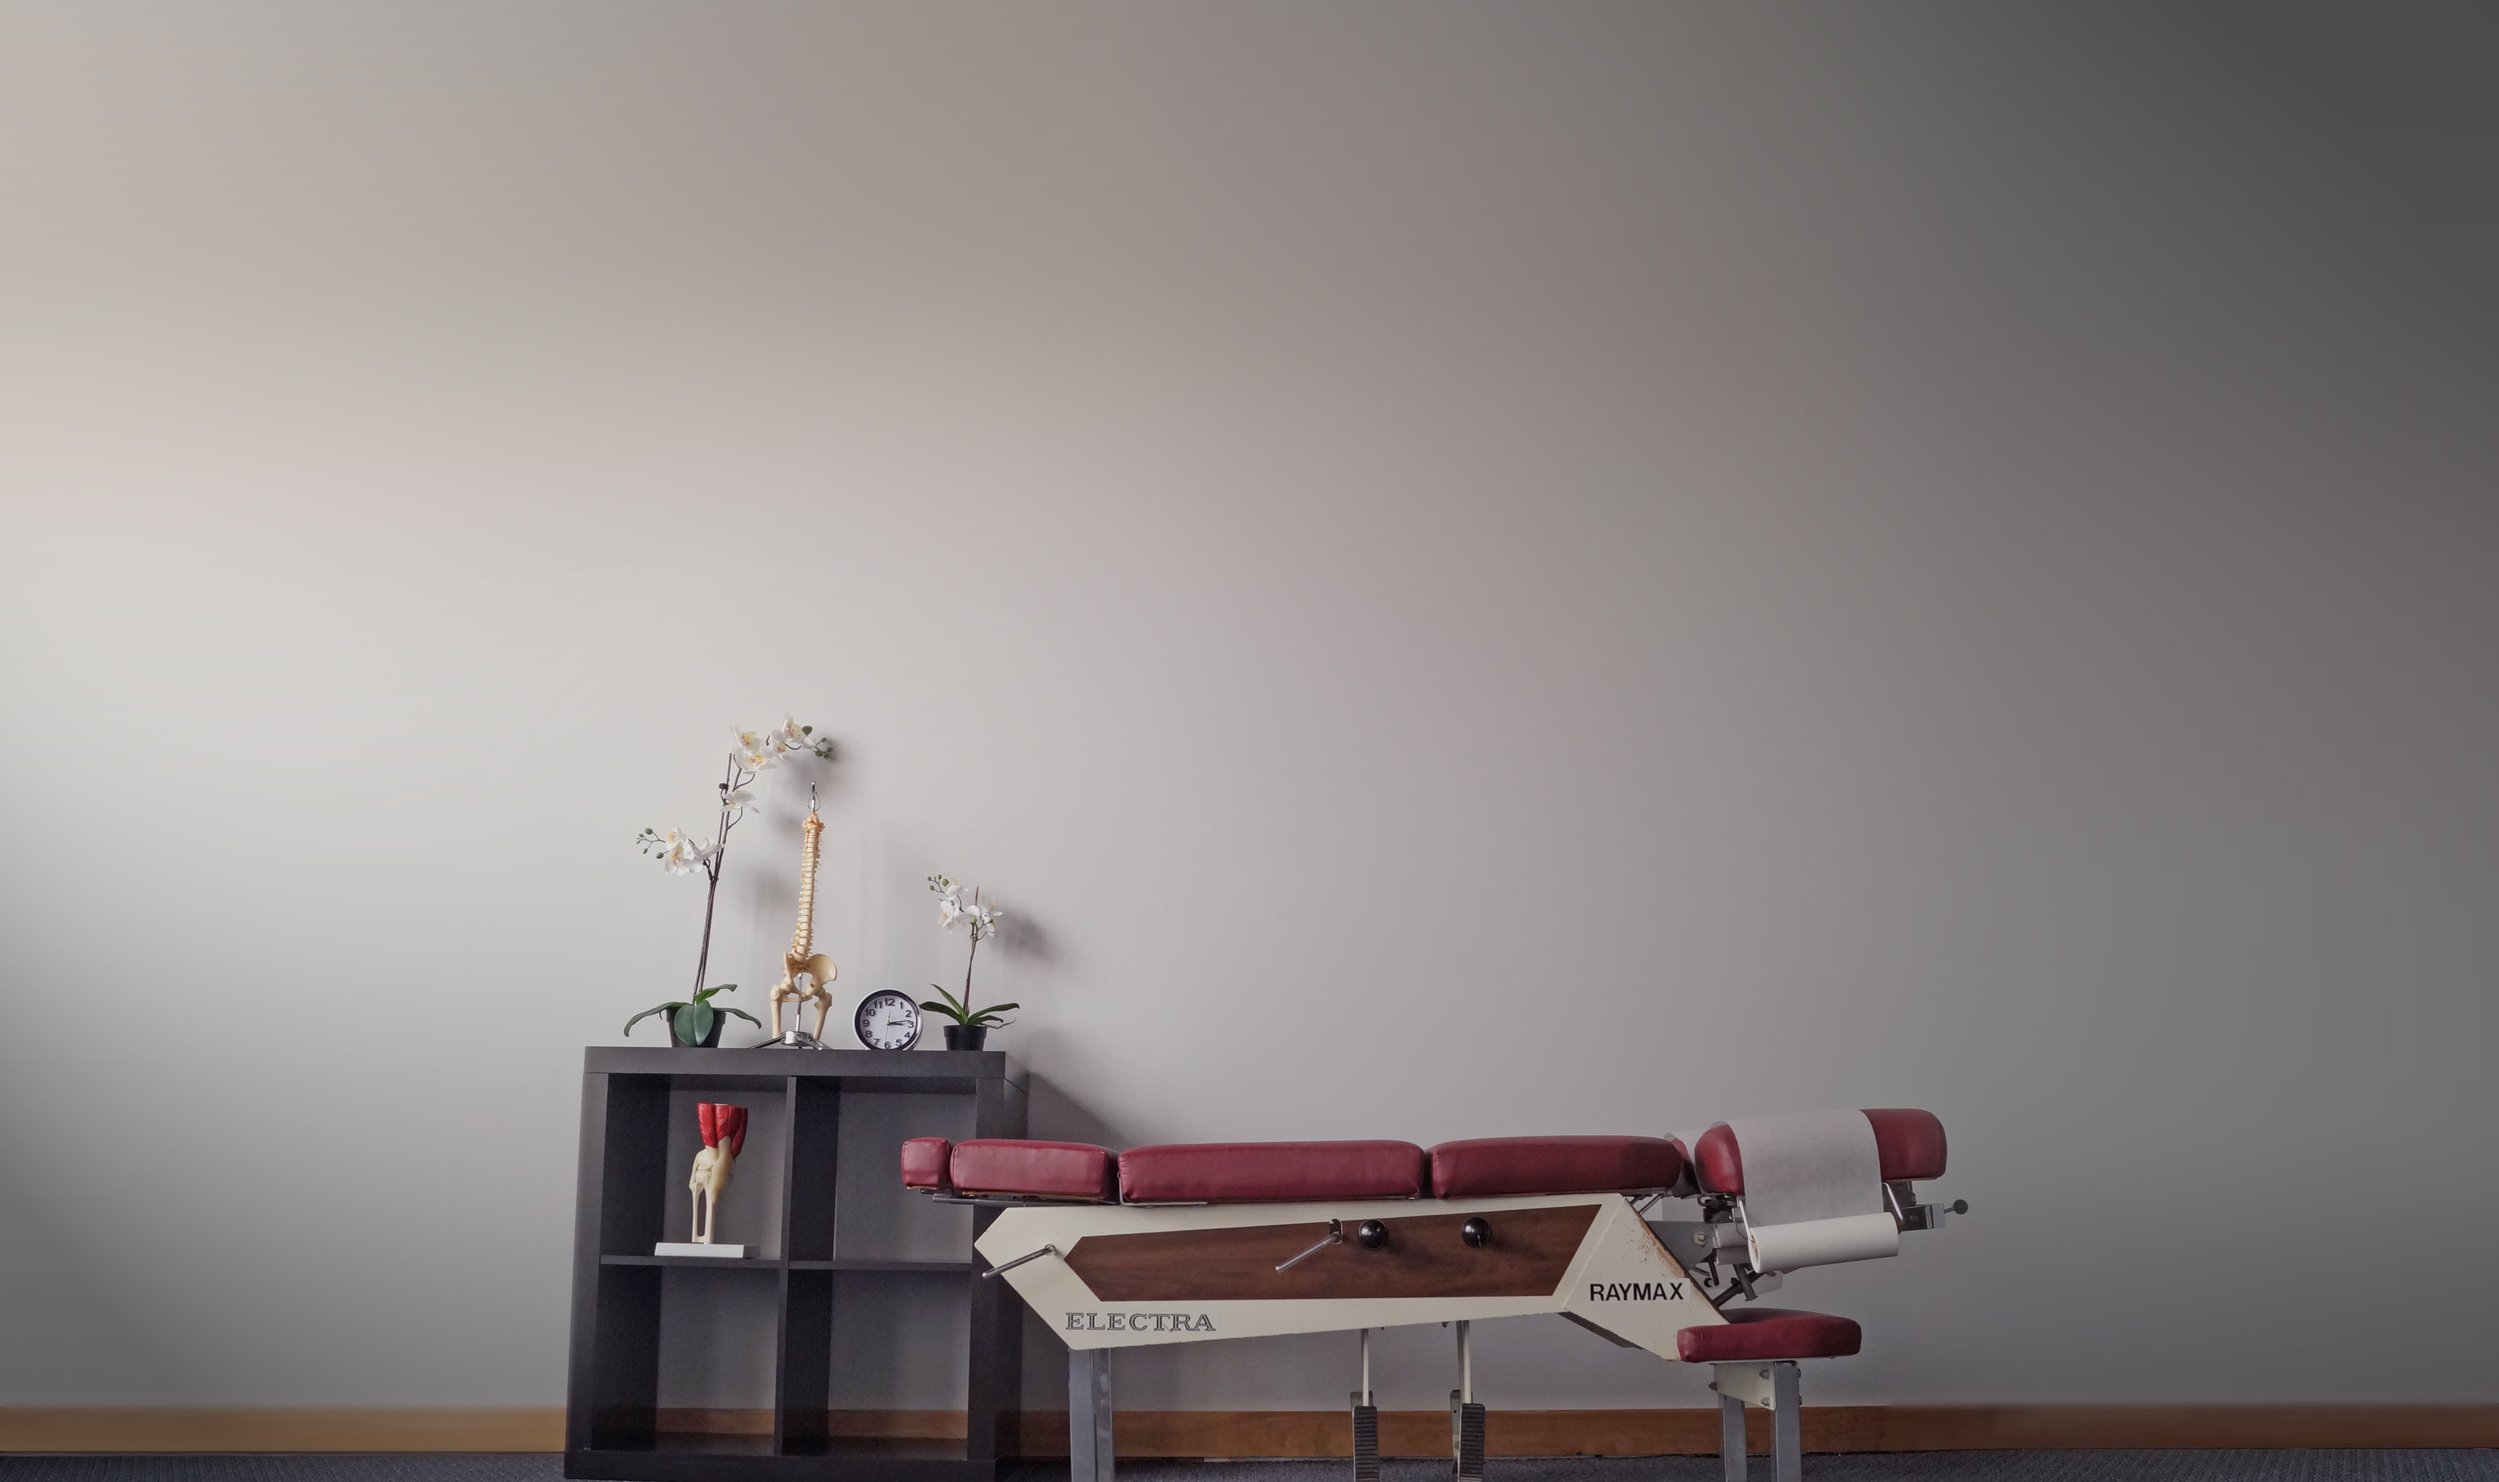
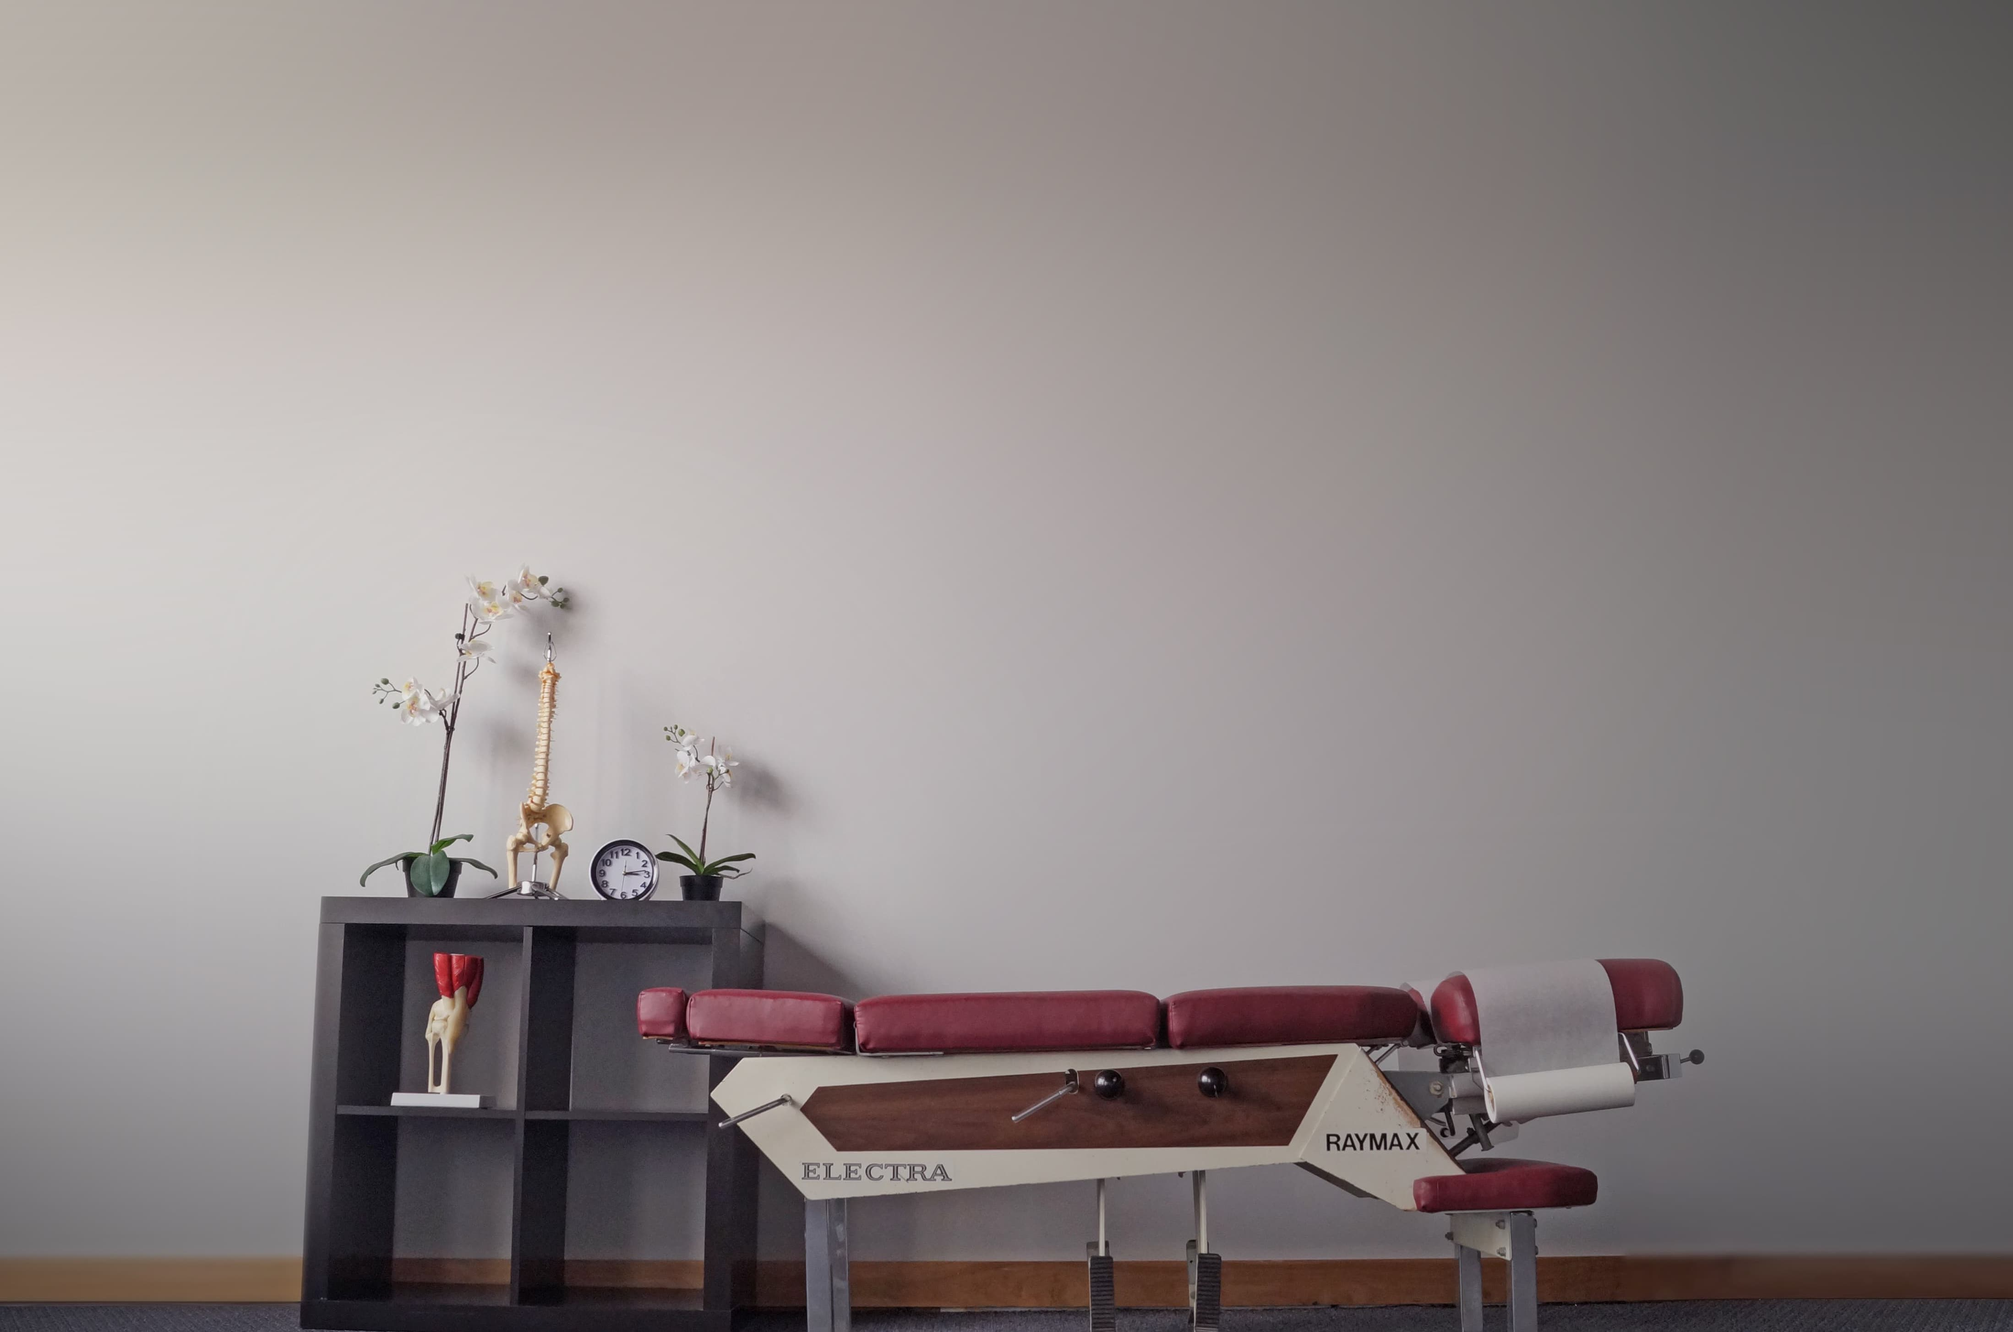
background live

diff --git a/dev/index.html b/dev/index.html
@@ -61,7 +61,7 @@
 
         <div class="headerText">
             <div class="headerTextFlex">
-                <p aria-label="tagline" class="--headerSize --bodyFont "><span class="tagWords move">move</span><span class="laugh tagWords">laugh</span><span class="tagWords play">play</span></p>
+                <p aria-label="tagline" class="--headerSize --bodyFont "><span class="tagWords move">move</span><span class="laugh tagWords">live</span><span class="tagWords play">play</span></p>
             </div><!-- end of headerTextFlex-->
         </div><!-- end of headerText-->
 

diff --git a/public/index.html b/public/index.html
@@ -61,7 +61,7 @@
 
         <div class="headerText">
             <div class="headerTextFlex">
-                <p aria-label="tagline" class="--headerSize --bodyFont "><span class="tagWords move">move</span><span class="laugh tagWords">laugh</span><span class="tagWords play">play</span></p>
+                <p aria-label="tagline" class="--headerSize --bodyFont "><span class="tagWords move">move</span><span class="laugh tagWords">live</span><span class="tagWords play">play</span></p>
             </div><!-- end of headerTextFlex-->
         </div><!-- end of headerText-->
 

diff --git a/dev/styles/partials/_header.scss b/dev/styles/partials/_header.scss
@@ -1,7 +1,8 @@
 .header {
     background-image: url('/../assets/background.jpg');
     background-size: cover;
-    height: 100vh;
+    background-position: 0 ;
+    height: 90vh;
     // background-position: center;
     // background-attachment: fixed;
     // overflow: hidden;

diff --git a/public/styles/styles.css b/public/styles/styles.css
@@ -248,7 +248,8 @@ h4 {
 .header {
   background-image: url("/../assets/background.jpg");
   background-size: cover;
-  height: 100vh; }
+  background-position: 0;
+  height: 90vh; }
 
 .headerNav {
   padding: 25px 0 0 0;
